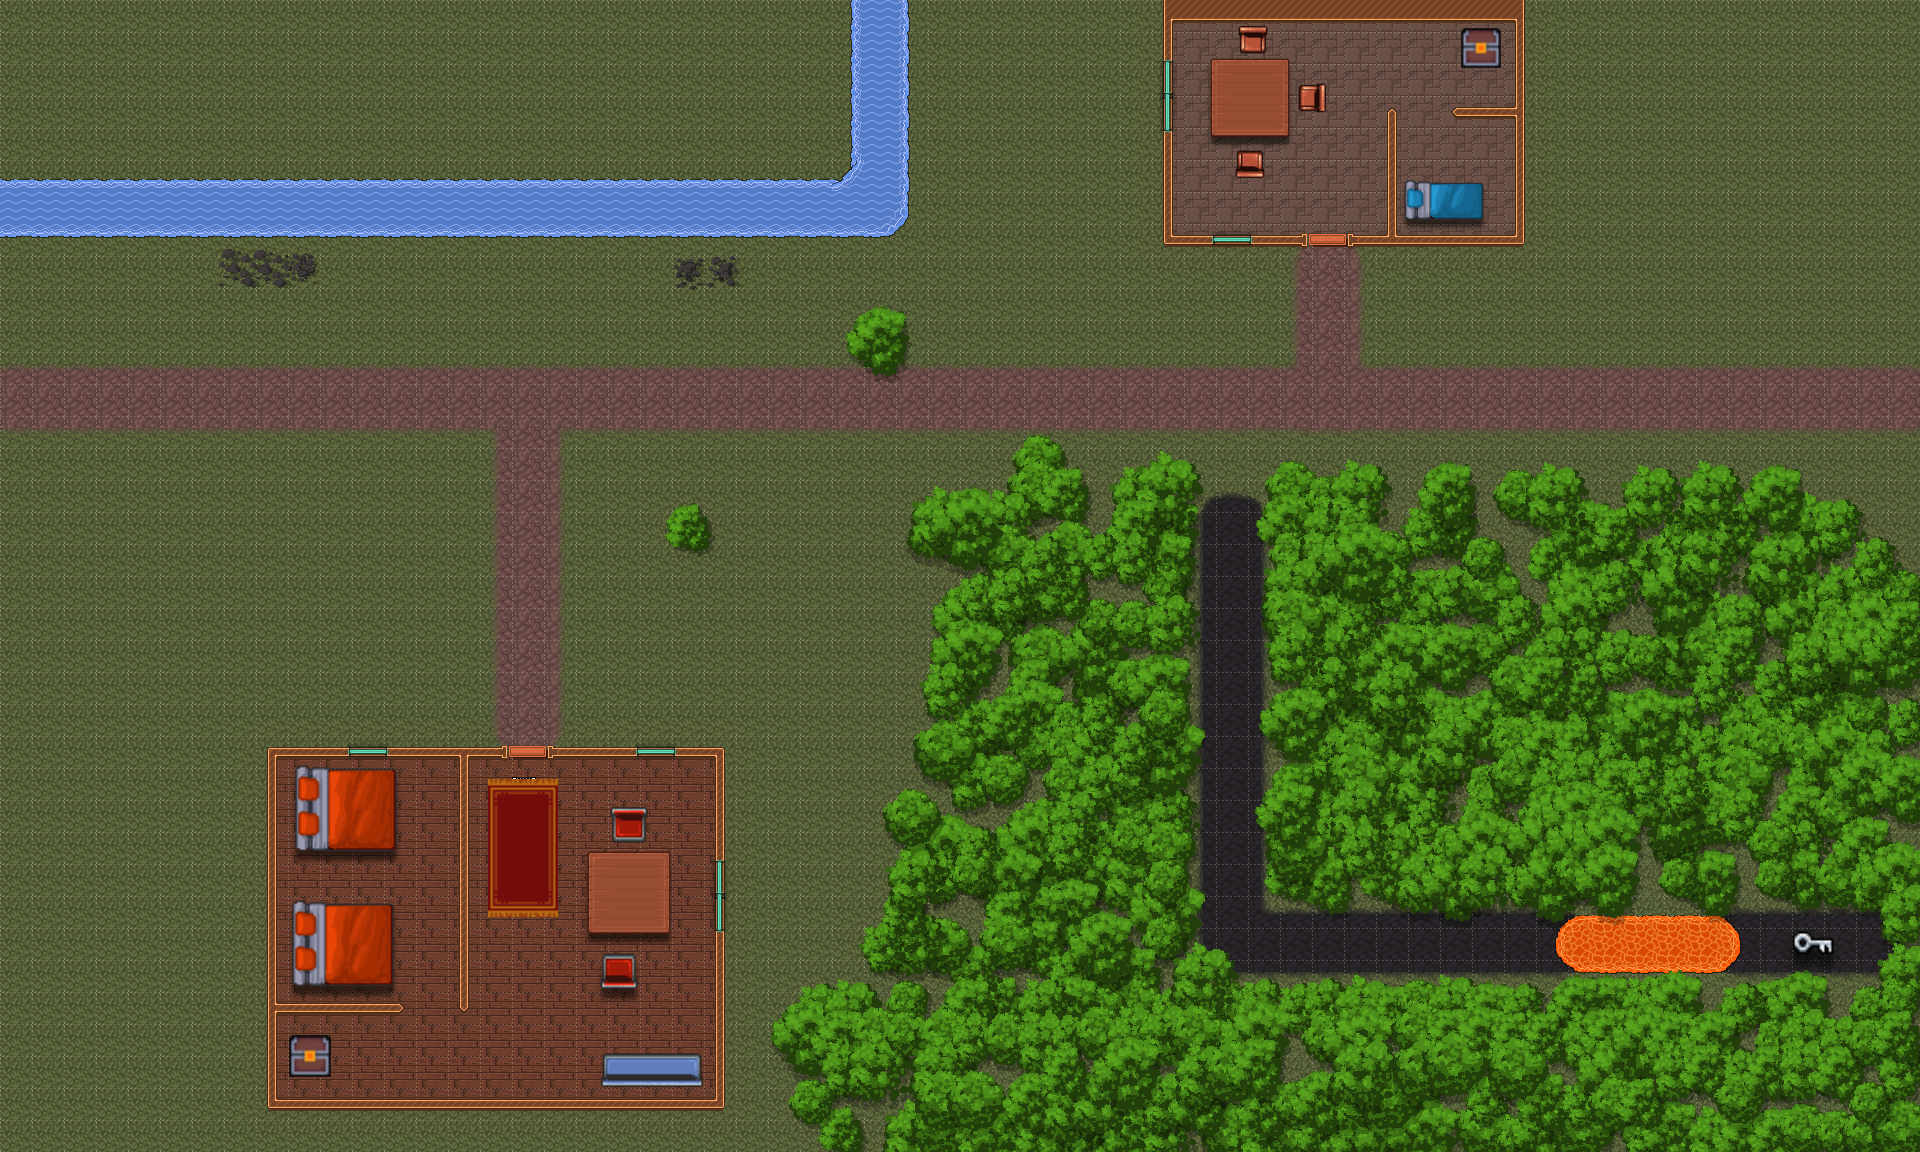
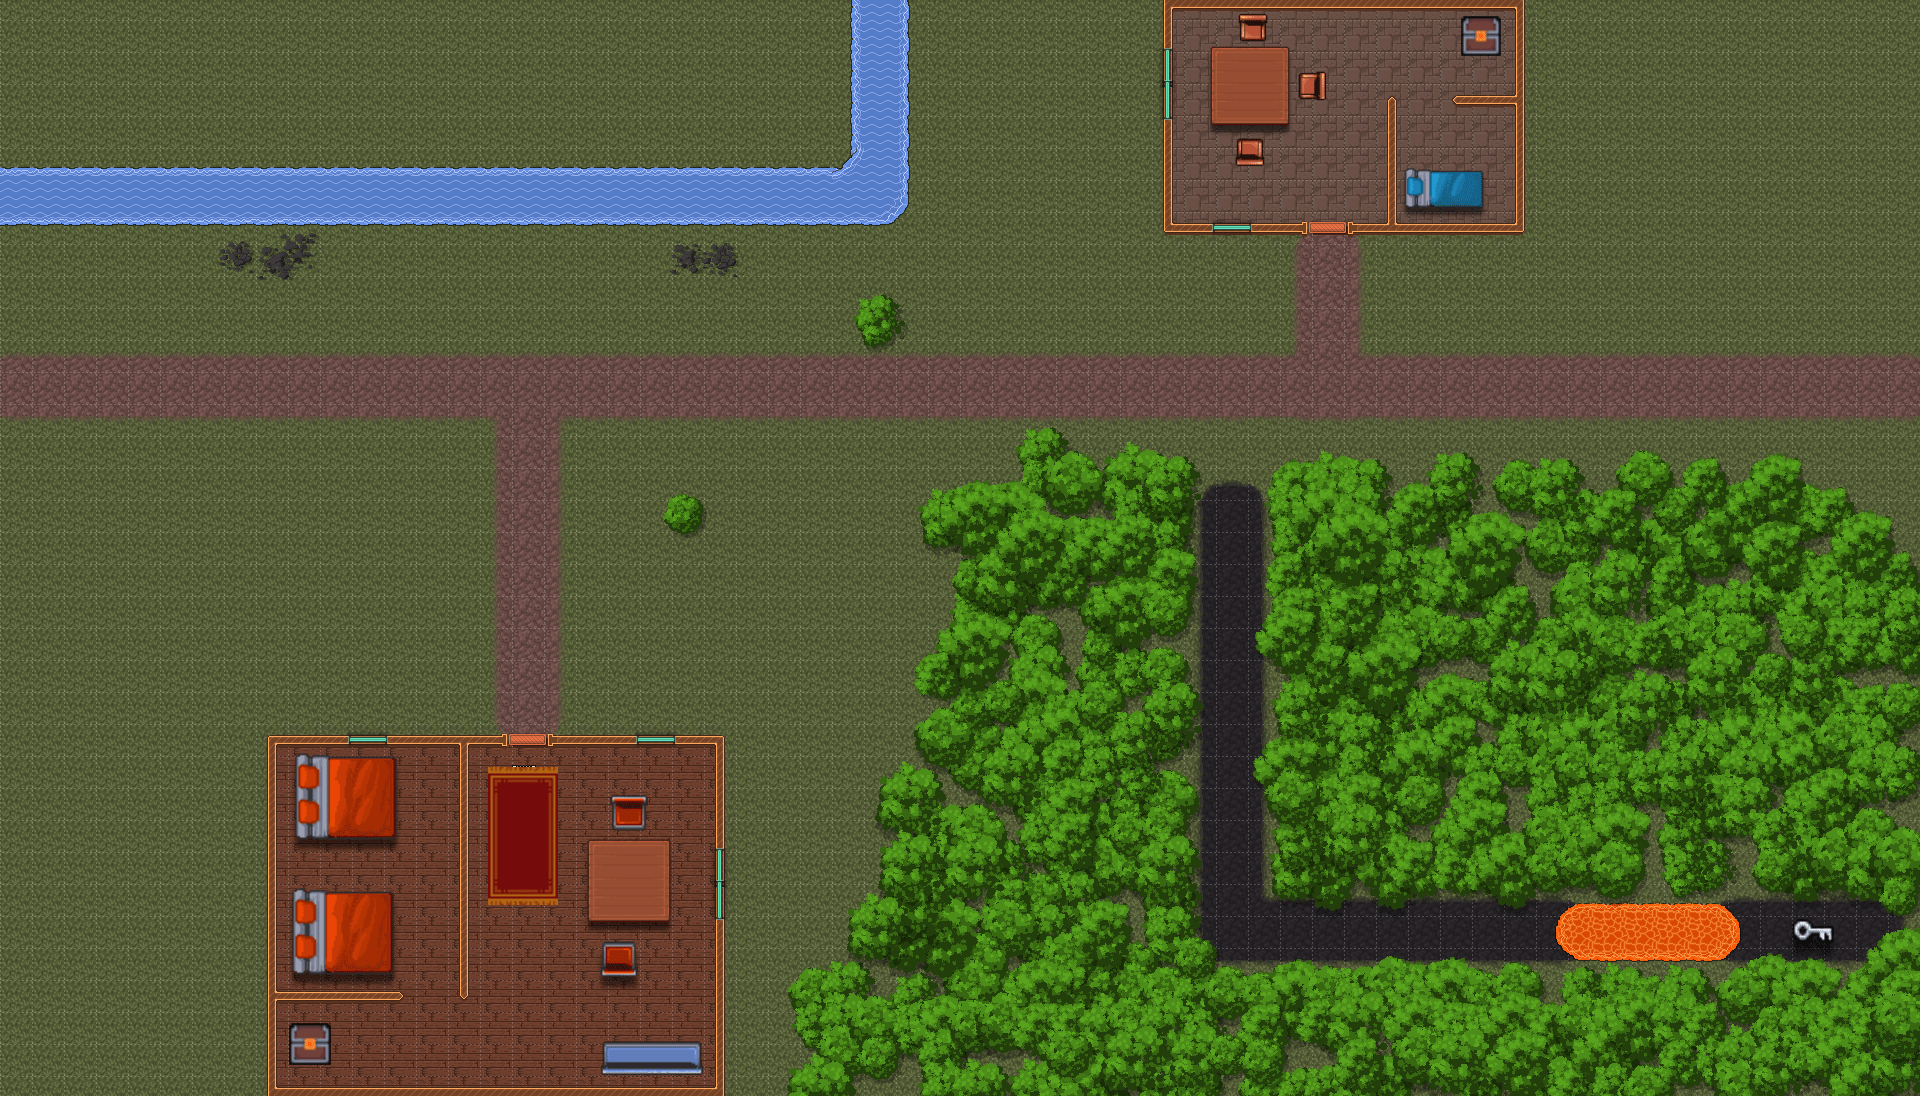
add map switch, fix bug, need col and last map

diff --git a/xavier/display_map_anim.c b/xavier/display_map_anim.c
@@ -1,0 +1,105 @@
+/*
+** EPITECH PROJECT, 2020
+** Base
+** File description:
+** main
+*/
+
+#include "map.h"
+
+void display_map_split(dinomove_t *move, sfSprite *old)
+{
+    sfRenderWindow_clear(move->window, sfWhite);
+    sfRenderWindow_drawSprite(move->window, old, NULL);
+    sfRenderWindow_drawSprite(move->window, move->my_sprite, NULL);
+    sfRenderWindow_display(move->window);
+}
+
+void display_change_down(dinomove_t *move, sfTexture *save, int o, int n)
+{
+    sfSprite *old = sfSprite_create();
+    sfVector2f size = {0.75, 0.75};
+    sfVector2f old_pos = {0, o};
+    sfVector2f new_pos = {0, n};
+    sfEvent event;
+    sfClock *clock = sfClock_create();
+
+    sfSprite_setTexture(old, save, sfTrue), sfSprite_setScale(old, size);
+    while (new_pos.x > 0) {
+        while (sfRenderWindow_pollEvent(move->window, &event))
+            if (event.type == sfEvtClosed) sfRenderWindow_close(move->window);
+        sfSprite_setPosition(old, old_pos);
+        sfSprite_setPosition(move->my_sprite, new_pos);
+        if (sfClock_getElapsedTime(clock).microseconds >= 15000)
+            old_pos.y -= 20, new_pos.y -= 20, sfClock_restart(clock);
+        display_map_split(move, old);
+    }
+    new_pos.y = 0, sfSprite_setPosition(move->my_sprite, new_pos);
+}
+
+void display_change_up(dinomove_t *move, sfTexture *save, int o, int n)
+{
+    sfSprite *old = sfSprite_create();
+    sfVector2f size = {0.75, 0.75};
+    sfVector2f old_pos = {o, 0};
+    sfVector2f new_pos = {n, 0};
+    sfEvent event;
+    sfClock *clock = sfClock_create();
+
+    sfSprite_setTexture(old, save, sfTrue), sfSprite_setScale(old, size);
+    while (new_pos.x > 0) {
+        while (sfRenderWindow_pollEvent(move->window, &event))
+            if (event.type == sfEvtClosed) sfRenderWindow_close(move->window);
+        sfSprite_setPosition(old, old_pos);
+        sfSprite_setPosition(move->my_sprite, new_pos);
+        if (sfClock_getElapsedTime(clock).microseconds >= 15000)
+            old_pos.x -= 20, new_pos.x -= 20, sfClock_restart(clock);
+        display_map_split(move, old);
+    }
+    new_pos.x = 0, sfSprite_setPosition(move->my_sprite, new_pos);
+}
+
+void display_change_first(dinomove_t *move, sfTexture *save, int o, int n)
+{
+    sfSprite *old = sfSprite_create();
+    sfVector2f size = {0.75, 0.75};
+    sfVector2f old_pos = {o, 0};
+    sfVector2f new_pos = {n, 0};
+    sfEvent event;
+    sfClock *clock = sfClock_create();
+
+    sfSprite_setTexture(old, save, sfTrue), sfSprite_setScale(old, size);
+    while (new_pos.x > 0) {
+        while (sfRenderWindow_pollEvent(move->window, &event))
+            if (event.type == sfEvtClosed) sfRenderWindow_close(move->window);
+        sfSprite_setPosition(old, old_pos);
+        sfSprite_setPosition(move->my_sprite, new_pos);
+        if (sfClock_getElapsedTime(clock).microseconds >= 15000)
+            old_pos.x -= 20, new_pos.x -= 20, sfClock_restart(clock);
+        display_map_split(move, old);
+    }
+    new_pos.x = 0, sfSprite_setPosition(move->my_sprite, new_pos);
+}
+
+void display_change_second(dinomove_t *move, sfTexture *save, int o, int n)
+{
+    sfSprite *old = sfSprite_create();
+    sfVector2f size = {0.75, 0.75};
+    sfVector2f old_pos = {o, 0};
+    sfVector2f new_pos = {n, 0};
+    sfEvent event;
+    sfClock *clock = sfClock_create();
+
+    sfSprite_setTexture(old, save, sfTrue), sfSprite_setScale(old, size);
+    while (old_pos.x < 1440) {
+        while (sfRenderWindow_pollEvent(move->window, &event))
+            if (event.type == sfEvtClosed) sfRenderWindow_close(move->window);
+        sfSprite_setPosition(old, old_pos);
+        sfSprite_setPosition(move->my_sprite, new_pos);
+        if (sfClock_getElapsedTime(clock).microseconds >= 15000)
+            old_pos.x += 20, new_pos.x += 20, sfClock_restart(clock);
+        display_map_split(move, old);
+    }
+    new_pos.x = 0, sfSprite_setPosition(move->my_sprite, new_pos);
+    move->dino_pos.x = 1359;
+}

diff --git a/xavier/change_map.c b/xavier/change_map.c
@@ -1,0 +1,69 @@
+/*
+** EPITECH PROJECT, 2020
+** Base
+** File description:
+** main
+*/
+
+#include "map.h"
+
+static void zero_map(dinomove_t *move, char *tex, char *map)
+{
+    move->my_texture = sfTexture_createFromFile(tex, NULL);
+    sfSprite_setTexture(move->my_sprite, move->my_texture, sfTrue);
+    move->dino_pos.x = 0;
+    move->fl_map_obstacle = map;
+}
+
+static void second_map(dinomove_t *move, char *tex, char *map)
+{
+    move->my_texture = sfTexture_createFromFile(tex, NULL);
+    sfSprite_setTexture(move->my_sprite, move->my_texture, sfTrue);
+    move->dino_pos.x = 0;
+    move->fl_map_obstacle = map;
+}
+
+static void first_map(dinomove_t *move, char *tex, char *map)
+{
+    move->my_texture = sfTexture_createFromFile(tex, NULL);
+    sfSprite_setTexture(move->my_sprite, move->my_texture, sfTrue);
+    move->dino_pos.x = 0;
+    move->fl_map_obstacle = map;
+}
+
+int change_map_next(dinomove_t *move)
+{
+    int o = 0;
+    int n = 1440;
+    sfTexture *save = move->my_texture;
+
+    if (strcmp(move->fl_map_obstacle, "json/map0.json") == 0)
+        zero_map(move, "map/village.png", "json/map1.json");
+    else if (strcmp(move->fl_map_obstacle, "json/map1.json") == 0)
+        first_map(move, "map/plage.png", "json/map2.json");
+    free_obs(move);
+    init_obstacle(move);
+    if (strcmp(move->fl_map_obstacle, "json/map3.json") == 0)
+        display_change_up(move, save, o, n);
+    else
+        display_change_first(move, save, o, n);
+    return (0);
+}
+
+int change_map_back(dinomove_t *move)
+{
+    int o = 0;
+    int n = -1440;
+    sfTexture *save = move->my_texture;
+
+    if (strcmp(move->fl_map_obstacle, "json/map1.json") == 0)
+        first_map(move, "map/maison.jpg", "json/map0.json");
+    else if (strcmp(move->fl_map_obstacle, "json/map2.json") == 0)
+        second_map(move, "map/village.png", "json/map1.json");
+    free_obs(move);
+    init_obstacle(move);
+    if (strcmp(move->fl_map_obstacle, "json.map3.json") == 0)
+        display_change_down(move, save, o, n);
+    display_change_second(move, save, o, n);
+    return (0);
+}

diff --git a/xavier/map_main.c b/xavier/map_main.c
@@ -15,7 +15,7 @@ int ch_move(sfRenderWindow *window, dinomove_t *move)
     }
     if (sfKeyboard_isKeyPressed(sfKeyRight)) {
         if (move->dino_pos.x <= 1370 && check_obs(move, 1) == 0)
-            move->dino_pos.x += 1.5;
+            move->dino_pos.x += 6;
     }
     if (sfKeyboard_isKeyPressed(sfKeyUp)) {
         if (move->dino_pos.y >= 0 && check_obs(move, 2) == 0)
@@ -31,7 +31,7 @@ int my_perso(sfRenderWindow *window, dinomove_t *move)
 {
     sfTexture *back = sfTexture_createFromFile("dino.png", NULL);
     sfSprite *my_spr = sfSprite_create();
-    sfVector2f sprite_size = {0.15, 0.15};
+    sfVector2f sprite_size = {0.6, 0.6};
     sfSprite_setPosition(my_spr, move->dino_pos);
     sfSprite_scale(my_spr, sprite_size);
 
@@ -43,22 +43,25 @@ int my_perso(sfRenderWindow *window, dinomove_t *move)
 int loop(sfRenderWindow *window)
 {
     sfEvent event;
-    sfTexture *my_texture = sfTexture_createFromFile("map/village1.png", NULL);
-    sfSprite *my_sprite = sfSprite_create();
     sfVector2f size = {0.75, 0.75};
     dinomove_t move = init_struct_move(move);
 
     if (move.index_obs == -1) return (-1);
-    sfSprite_setScale(my_sprite, size);
+    move.my_texture = sfTexture_createFromFile("map/maison.jpg", NULL);
+    move.my_sprite = sfSprite_create(), move.window = window;
+    sfSprite_setTexture(move.my_sprite, move.my_texture, sfTrue);
+    sfSprite_setScale(move.my_sprite, size);
     while (sfRenderWindow_isOpen(window)) {
         while (sfRenderWindow_pollEvent(window, &event)) {
             if (event.type == sfEvtClosed)
                 sfRenderWindow_close(window);
         }
         ch_move(window, &move), sfRenderWindow_clear(window, sfWhite);
-        sfSprite_setTexture(my_sprite, my_texture, sfTrue);
-        sfRenderWindow_drawSprite(window, my_sprite, NULL);
+        sfRenderWindow_drawSprite(window, move.my_sprite, NULL);
         my_perso(window, &move), sfRenderWindow_display(window);
+        /*int a = move.dino_pos.x;
+        int b = move.dino_pos.y;
+        printf("%d %d\n", a, b);*/
     }
     return (0);
 }

diff --git a/xavier/obstacle.c b/xavier/obstacle.c
@@ -7,7 +7,7 @@
 
 #include "map.h"
 
-int fill_obstacle_tab(char *buff, dinomove_t *move, int *i)
+static int fill_obstacle_tab(char *buff, dinomove_t *move, int *i)
 {
     int a = 0;
     int h = 0;
@@ -30,7 +30,7 @@ int fill_obstacle_tab(char *buff, dinomove_t *move, int *i)
     return (0);
 }
 
-int init_obstacle_split(char *buff, dinomove_t *move)
+static int init_obstacle_split(char *buff, dinomove_t *move)
 {
     int i = 0;
     int a = 0;
@@ -60,7 +60,7 @@ int init_obstacle(dinomove_t *move)
     int ret = 0;
     char buff[4096];
 
-    fd = open("map1.json", O_RDWR);
+    fd = open(move->fl_map_obstacle, O_RDWR);
     if (fd == -1) return (1);
     ret = read(fd, buff, 4096);
     if (ret == -1) return (1);
@@ -75,6 +75,7 @@ dinomove_t init_struct_move(dinomove_t move)
     move.map_size.y = 810;
     move.dino_pos.x = 0;
     move.dino_pos.y = 200;
+    move.fl_map_obstacle = "json/map0.json";
     move.index_obs = 0;
     if (init_obstacle(&move) == 1)
         move.index_obs = -1;
@@ -94,6 +95,10 @@ int check_obs(dinomove_t *move, int dir)
     while (i != move->index_obs) {
         if (st.x >= move->obstacle[i][0] && st.x <= move->obstacle[i][1]) {
             if (st.y >= move->obstacle[i][2] && st.y <= move->obstacle[i][3]) {
+                if (strcmp(move->type[i], " \"nextmap\"") == 0)
+                    change_map_next(move);
+                else if (strcmp(move->type[i], " \"backmap\"") == 0)
+                    change_map_back(move);
                 return (1);
             }
         }

diff --git a/xavier/include/map.h b/xavier/include/map.h
@@ -23,9 +23,13 @@
 #include <unistd.h>
 
 typedef struct {
+    sfRenderWindow *window;
+    sfTexture *my_texture;
+    sfSprite *my_sprite;
     sfVector2f dino_pos;
     sfVector2f map_size;
     sfVector2f map_limit;
+    char *fl_map_obstacle;
     int **obstacle;
     char **type;
     size_t index_obs;
@@ -33,5 +37,13 @@ typedef struct {
 
 dinomove_t init_struct_move(dinomove_t move);
 int check_obs(dinomove_t *move, int dir);
+int change_map_back(dinomove_t *move);
+int change_map_next(dinomove_t *move);
+int init_obstacle(dinomove_t *move);
+void free_obs(dinomove_t *move);
+void display_change_first(dinomove_t *move, sfTexture *save, int o, int n);
+void display_change_second(dinomove_t *move, sfTexture *save, int o, int n);
+void display_change_up(dinomove_t *move, sfTexture *save, int o, int n);
+void display_change_down(dinomove_t *move, sfTexture *save, int o, int n);
 
 #endif

diff --git a/xavier/free.c b/xavier/free.c
@@ -1,0 +1,22 @@
+/*
+** EPITECH PROJECT, 2020
+** Base
+** File description:
+** main
+*/
+
+#include "map.h"
+
+void free_obs(dinomove_t *move)
+{
+    int i = 0;
+
+    while (i != move->index_obs) {
+        free(move->obstacle[i]);
+        free(move->type[i]);
+        i++;
+    }
+    free(move->obstacle);
+    free(move->type);
+    move->index_obs = 0;
+}
